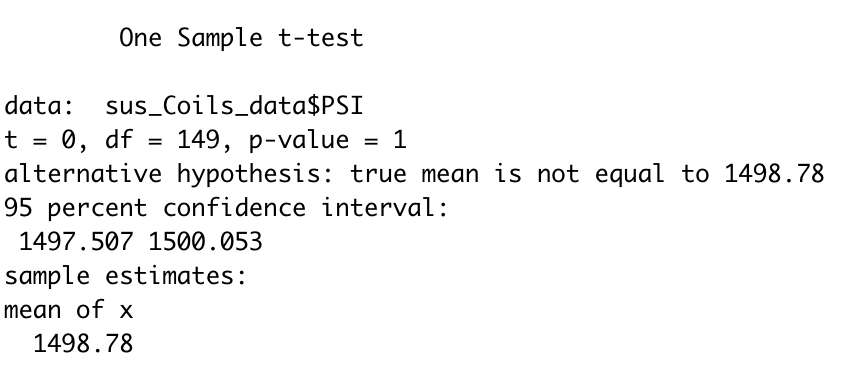
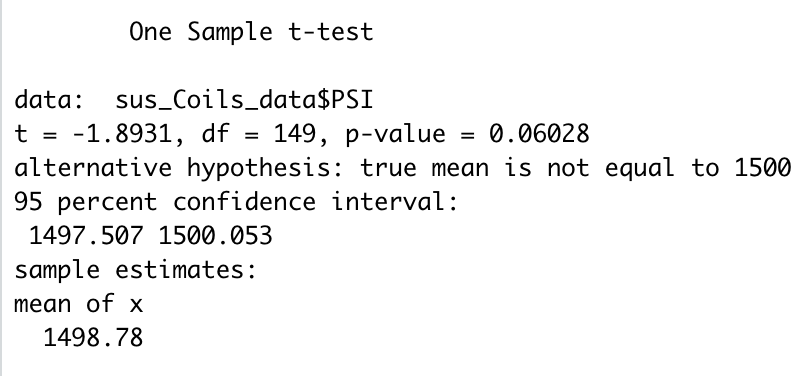
update

diff --git a/README.md b/README.md
@@ -9,7 +9,7 @@ The multiple linear regression model was estimated.
 
 Based on the analysis result, both **bold vehicle_length** and **bold ground_clearance** are statistically providing non-random amounts of variance to the mpg values. The both factors have a significant impact on mpg. The other factors including vehicle_weight, spoiler_angle and AWD are statistically likely to provide random amounts of variance to the linear model.
 
-The p-value is estimated to be **bold 5.35e-11**, which is much smaller than our assumed significance level of 0.05%. Therefore, we can state that there is sufficient evidence to reject our null hypothesis, which means that the slope of our linear model is not zero.
+The p-value is estimated to be **bold 5.35e-11**, which is much smaller than our assumed significance level of 0.05. Therefore, we can state that there is sufficient evidence to reject our null hypothesis, which means that the slope of our linear model is not zero.
 
 The independent variables have been evaluated and the r-squared value of the model is determined as **bold 0.7149**, which indicates that the model sufficiently predicts our dependent variable, mpg, of MechaCar prototypes.
 
@@ -21,13 +21,19 @@ While, further examination on the data in each lot individually shows a high var
 ![lot_sum](https://github.com/hankai26/MechaCar_Statistical_Analysis/blob/main/Image/lot_sum.png)
 
 ## T-Tests on Suspension Coils
-Using your knowledge of R, perform t-tests to determine if all manufacturing lots and each lot individually are statistically different from the population mean of 1,500 pounds per square inch.
+Using the statistic tool of R, the t-tests are performed to determine if all manufacturing lots and each lot individually are statistically different from the population mean of 1,500 pounds per square inch. The t-test is used to test the hypotheses:
+    - H0 : There is no statistical difference between the sample mean and our presumed population mean of 1,500 PSI.
+    - Ha : There is a statistical difference between the sample mean and our presumed population mean of 1,500 PSI.
 
-using the t.test() function to determine if the PSI across all manufacturing lots is statistically different from the population mean of 1,500 pounds per square inch.
-![t-test1]()
+1. The t.test() function is used in RScript to compare the PSI across all manufacturing lots to the population mean of 1,500 PSI. The p-value is estimated as **bold 0.06028**, which is higher than our assumed significance level of 0.05. Therefore, we conclude that there is insufficient evidence to reject the null hypothesis H0. The mean of all manufacturing lots are statistically consistent with the population mean.
 
-using the t.test() function and its subset() argument to determine if the PSI for each manufacturing lot is statistically different from the population mean of 1,500 pounds per square inch.
-![t-test1]()
+![t-test1](https://github.com/hankai26/MechaCar_Statistical_Analysis/blob/main/Image/t-test_1.png)
+
+2. Three subsets and according tests are conducted to look into all three lots individually to compare with population mean. The p-values of Lot1 and Lot2 are **bold 1** and **bold 0.6072**, respectively. Both p-values are higher than our assumed significance level of 0.05. There is no sufficient evidence to reject our null hypothesis, which means that Lot1 and Lot2 have no statistical difference from the preassumed population mean of 1,500 PSI.
+
+The p-values of Lot3 is **bold 0.04168**, which is smaller than our assumed significance level of 0.05. We then have sufficient evidence to reject the null hypothesis. It is concluded that Lot3 shows statistical difference from the population mean.
+
+![t-test2](https://github.com/hankai26/MechaCar_Statistical_Analysis/blob/main/Image/t-test_2.png)
 
 
 4. Design a Study Comparing the MechaCar to the Competition
